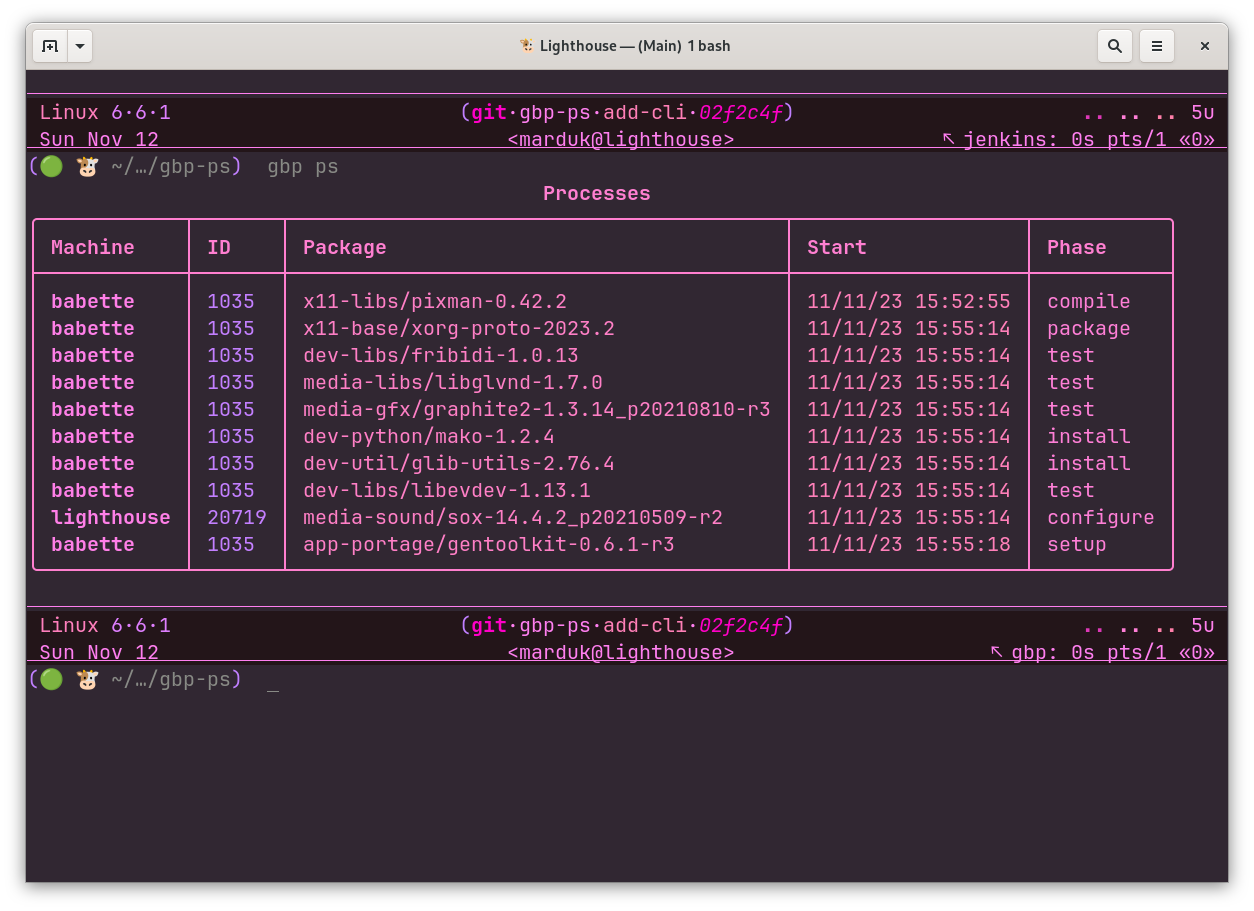
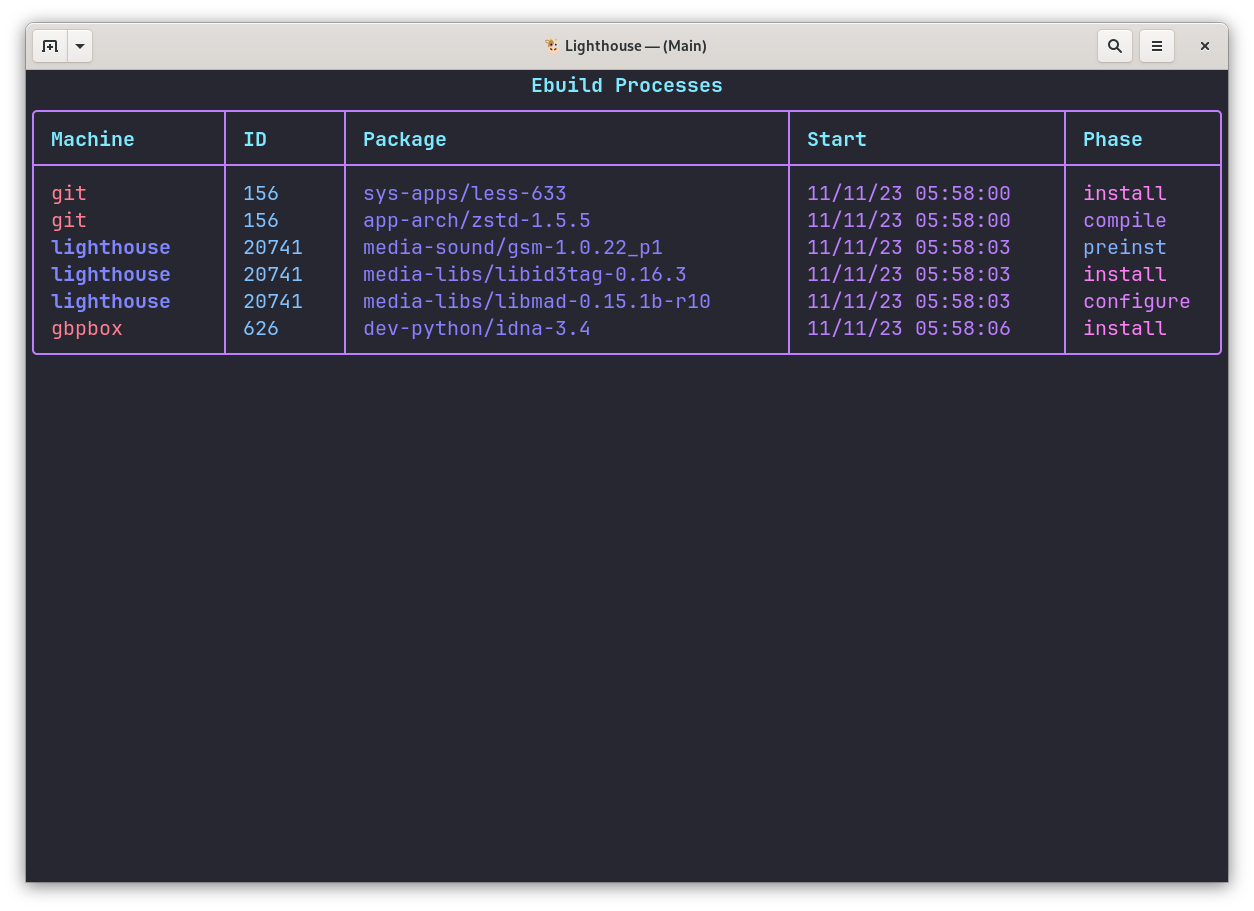
cli: add --continuous argument
When passed, `gbp ps` runs in "continuous" mode which repeatedly updates
the process table display.

diff --git a/tests/test_cli.py b/tests/test_cli.py
@@ -16,7 +16,7 @@ from rich.theme import Theme
 
 from gbp_ps import ps
 
-from . import LOCAL_TIMEZONE, make_build_process
+from . import LOCAL_TIMEZONE, build_process_dict, make_build_process
 
 
 def string_console() -> tuple[Console, io.StringIO, io.StringIO]:
@@ -26,7 +26,7 @@ def string_console() -> tuple[Console, io.StringIO, io.StringIO]:
 
     return (
         Console(
-            out=rich.console.Console(file=out, width=100, theme=Theme(DEFAULT_THEME)),
+            out=rich.console.Console(file=out, width=88, theme=Theme(DEFAULT_THEME)),
             err=rich.console.Console(file=err),
         ),
         out,
@@ -88,20 +88,20 @@ class PSTests(TestCase):
             ["net-misc/wget-1.21.4", "compile"],
         ]:
             make_build_process(package=cpv, phase=phase)
-        args = Namespace(url="http://gbp.invalid/", node=False)
+        args = Namespace(url="http://gbp.invalid/", node=False, continuous=False)
         console, stdout = string_console()[:2]
         exit_status = ps.handler(args, self.gbp, console)
 
         self.assertEqual(exit_status, 0)
         expected = """\
-                                 Processes                                  
-╭──────────┬──────┬─────────────────────────┬───────────────────┬──────────╮
-│ Machine  │ ID   │ Package                 │ Start             │ Phase    │
-├──────────┼──────┼─────────────────────────┼───────────────────┼──────────┤
-│ babbette │ 1031 │ sys-apps/portage-3.0.51 │ 11/11/23 05:20:52 │ postinst │
-│ babbette │ 1031 │ sys-apps/shadow-4.14-r4 │ 11/11/23 05:20:52 │ package  │
-│ babbette │ 1031 │ net-misc/wget-1.21.4    │ 11/11/23 05:20:52 │ compile  │
-╰──────────┴──────┴─────────────────────────┴───────────────────┴──────────╯
+                                    Ebuild Processes                                    
+╭────────────┬───────┬─────────────────────────────┬──────────────────────┬────────────╮
+│ Machine    │ ID    │ Package                     │ Start                │ Phase      │
+├────────────┼───────┼─────────────────────────────┼──────────────────────┼────────────┤
+│ babbette   │ 1031  │ sys-apps/portage-3.0.51     │ 11/11/23 05:20:52    │ postinst   │
+│ babbette   │ 1031  │ sys-apps/shadow-4.14-r4     │ 11/11/23 05:20:52    │ package    │
+│ babbette   │ 1031  │ net-misc/wget-1.21.4        │ 11/11/23 05:20:52    │ compile    │
+╰────────────┴───────┴─────────────────────────────┴──────────────────────┴────────────╯
 """
         self.assertEqual(stdout.getvalue(), expected)
 
@@ -113,30 +113,66 @@ class PSTests(TestCase):
             ["net-misc/wget-1.21.4", "compile"],
         ]:
             make_build_process(package=cpv, phase=phase)
-        args = Namespace(url="http://gbp.invalid/", node=True)
+        args = Namespace(url="http://gbp.invalid/", node=True, continuous=False)
         console, stdout = string_console()[:2]
         exit_status = ps.handler(args, self.gbp, console)
 
         self.assertEqual(exit_status, 0)
         expected = """\
-                                      Processes                                       
-╭──────────┬──────┬─────────────────────────┬───────────────────┬──────────┬─────────╮
-│ Machine  │ ID   │ Package                 │ Start             │ Phase    │ Node    │
-├──────────┼──────┼─────────────────────────┼───────────────────┼──────────┼─────────┤
-│ babbette │ 1031 │ sys-apps/portage-3.0.51 │ 11/11/23 05:20:52 │ postinst │ jenkins │
-│ babbette │ 1031 │ sys-apps/shadow-4.14-r4 │ 11/11/23 05:20:52 │ package  │ jenkins │
-│ babbette │ 1031 │ net-misc/wget-1.21.4    │ 11/11/23 05:20:52 │ compile  │ jenkins │
-╰──────────┴──────┴─────────────────────────┴───────────────────┴──────────┴─────────╯
+                                    Ebuild Processes                                    
+╭───────────┬──────┬─────────────────────────┬───────────────────┬───────────┬─────────╮
+│ Machine   │ ID   │ Package                 │ Start             │ Phase     │ Node    │
+├───────────┼──────┼─────────────────────────┼───────────────────┼───────────┼─────────┤
+│ babbette  │ 1031 │ sys-apps/portage-3.0.51 │ 11/11/23 05:20:52 │ postinst  │ jenkins │
+│ babbette  │ 1031 │ sys-apps/shadow-4.14-r4 │ 11/11/23 05:20:52 │ package   │ jenkins │
+│ babbette  │ 1031 │ net-misc/wget-1.21.4    │ 11/11/23 05:20:52 │ compile   │ jenkins │
+╰───────────┴──────┴─────────────────────────┴───────────────────┴───────────┴─────────╯
 """
         self.assertEqual(stdout.getvalue(), expected)
 
     def test_empty(self) -> None:
-        args = Namespace(url="http://gbp.invalid/", node=False)
+        args = Namespace(url="http://gbp.invalid/", node=False, continuous=False)
         console, stdout = string_console()[:2]
         exit_status = ps.handler(args, self.gbp, console)
 
         self.assertEqual(exit_status, 0)
         self.assertEqual(stdout.getvalue(), "")
+
+    @mock.patch("gbp_ps.ps.time.sleep")
+    def test_continuous_mode(self, mock_sleep: mock.Mock) -> None:
+        processes = [
+            make_build_process(package=cpv, phase=phase)
+            for cpv, phase in [
+                ["sys-apps/portage-3.0.51", "postinst"],
+                ["sys-apps/shadow-4.14-r4", "package"],
+                ["net-misc/wget-1.21.4", "compile"],
+            ]
+        ]
+        args = Namespace(
+            url="http://gbp.invalid/", node=False, continuous=True, update_interval=4
+        )
+        console, stdout = string_console()[:2]
+
+        gbp = mock.Mock()
+        mock_graphql_resp = [build_process_dict(process) for process in processes]
+        gbp.query.get_processes.side_effect = (
+            ({"buildProcesses": mock_graphql_resp}, None),
+            KeyboardInterrupt,
+        )
+        exit_status = ps.handler(args, gbp, console)
+
+        self.assertEqual(exit_status, 0)
+        expected = """\
+                                    Ebuild Processes                                    
+╭────────────┬───────┬─────────────────────────────┬──────────────────────┬────────────╮
+│ Machine    │ ID    │ Package                     │ Start                │ Phase      │
+├────────────┼───────┼─────────────────────────────┼──────────────────────┼────────────┤
+│ babbette   │ 1031  │ sys-apps/portage-3.0.51     │ 11/11/23 06:20:52    │ postinst   │
+│ babbette   │ 1031  │ sys-apps/shadow-4.14-r4     │ 11/11/23 06:20:52    │ package    │
+│ babbette   │ 1031  │ net-misc/wget-1.21.4        │ 11/11/23 06:20:52    │ compile    │
+╰────────────┴───────┴─────────────────────────────┴──────────────────────┴────────────╯"""
+        self.assertEqual(stdout.getvalue(), expected)
+        mock_sleep.assert_called_with(4)
 
 
 class ParseArgsTests(TestCase):

diff --git a/src/gbp_ps/ps.py b/src/gbp_ps/ps.py
@@ -1,26 +1,28 @@
 """Show currently building packages"""
 import argparse
 import datetime as dt
-from typing import Any
+import time
+from typing import Any, Callable, TypeAlias
 
 from gbpcli import GBP, Console, render
 from gbpcli.graphql import check
 from rich import box
+from rich.live import Live
 from rich.table import Table
 
+ModeHandler = Callable[[argparse.Namespace, GBP, Console], int]
+ProcessList: TypeAlias = list[dict[str, Any]]
 
-def handler(args: argparse.Namespace, gbp: GBP, console: Console) -> int:
-    """Show currently building packages"""
-    # NOTE: This was unintentional, but ^ GBP can only see the queries for the "gbpcli"
-    # distribution.  It needs a collector like gentoo-build-publisher has a collector
-    # for schemas
-    gbp.query._distribution = "gbp_ps"  # pylint: disable=protected-access
-    processes: list[dict[str, Any]] = check(gbp.query.get_processes())["buildProcesses"]
 
-    if not processes:
-        return 0
-
-    table = Table(title="Processes", box=box.ROUNDED, title_style="header", style="box")
+def create_table(processes: ProcessList, args: argparse.Namespace) -> Table:
+    """Return a rich Table given the list of processes"""
+    table = Table(
+        title="Ebuild Processes",
+        box=box.ROUNDED,
+        expand=True,
+        title_style="header",
+        style="box",
+    )
     table.add_column("Machine", header_style="header")
     table.add_column("ID", header_style="header")
     table.add_column("Package", header_style="header")
@@ -31,6 +33,7 @@ def handler(args: argparse.Namespace, gbp: GBP, console: Console) -> int:
         table.add_column("Node", header_style="header")
 
     for process in processes:
+        phase = process["phase"]
         row = [
             render.format_machine(process["machine"], args),
             render.format_build_number(process["id"]),
@@ -40,18 +43,72 @@ def handler(args: argparse.Namespace, gbp: GBP, console: Console) -> int:
                     render.LOCAL_TIMEZONE
                 )
             ),
-            f"[tag]{process['phase']}[/tag]",
+            f"[{phase}_phase]{phase:9}[/{phase}_phase]",
         ]
         if args.node:
             row.append(process["buildHost"])
         table.add_row(*row)
 
-    console.out.print(table)
+    return table
+
+
+def single_handler(args: argparse.Namespace, gbp: GBP, console: Console) -> int:
+    """Handler for the single-mode run of `gbp ps`"""
+    processes: ProcessList
+
+    if processes := check(gbp.query.get_processes())["buildProcesses"]:
+        console.out.print(create_table(processes, args))
+
     return 0
+
+
+def continuous_handler(args: argparse.Namespace, gbp: GBP, console: Console) -> int:
+    """Handler for the continuous-mode run of `gbp ps`"""
+
+    def update() -> Table:
+        return create_table(check(gbp.query.get_processes())["buildProcesses"], args)
+
+    console.out.clear()
+    with Live(update(), console=console.out) as live:
+        try:
+            while True:
+                time.sleep(args.update_interval)
+                live.update(update())
+        except KeyboardInterrupt:
+            pass
+    return 0
+
+
+MODES = [single_handler, continuous_handler]
+
+
+def handler(args: argparse.Namespace, gbp: GBP, console: Console) -> int:
+    """Show currently building packages"""
+    # NOTE: This was unintentional, but ^ GBP can only see the queries for the "gbpcli"
+    # distribution.  It needs a collector like gentoo-build-publisher has a collector
+    # for schemas
+    gbp.query._distribution = "gbp_ps"  # pylint: disable=protected-access
+
+    mode: ModeHandler = MODES[args.continuous]
+    return mode(args, gbp, console)
 
 
 def parse_args(parser: argparse.ArgumentParser) -> None:
     """Set subcommand arguments"""
     parser.add_argument(
         "--node", action="store_true", default=False, help="display the build node"
+    )
+    parser.add_argument(
+        "--continuous",
+        "-c",
+        action="store_true",
+        default=False,
+        help="Run and continuously poll and update",
+    )
+    parser.add_argument(
+        "--update-interval",
+        "-i",
+        type=int,
+        default=1,
+        help="In continuous mode, the interval, in seconds, between updates",
     )

diff --git a/tests/test_graphql.py b/tests/test_graphql.py
@@ -1,7 +1,6 @@
 """Tests for the GraphQL interface for gbp-ps"""
 # pylint: disable=missing-docstring
 
-from dataclasses import asdict
 from typing import Any
 
 from django.test import TestCase
@@ -9,9 +8,8 @@ from django.test.client import Client
 
 import gbp_ps
 from gbp_ps.repository import Repository
-from gbp_ps.types import BuildProcess
 
-from . import make_build_process
+from . import build_process_dict, make_build_process
 
 
 def graphql(query: str, variables: dict[str, Any] | None = None) -> Any:
@@ -126,12 +124,3 @@ class AddBuildProcessesTests(TestCase):
 
         self.assertNotIn("errors", result)
         self.assertEqual(gbp_ps.get_processes(include_final=True), [])
-
-
-def build_process_dict(build_process: BuildProcess) -> dict[str, Any]:
-    bp_dict = asdict(build_process)
-    bp_dict["buildHost"] = bp_dict.pop("build_host")
-    bp_dict["id"] = bp_dict.pop("build_id")
-    bp_dict["startTime"] = bp_dict.pop("start_time").isoformat()
-
-    return bp_dict

diff --git a/tests/__init__.py b/tests/__init__.py
@@ -1,5 +1,6 @@
 """gbp-ps tests"""
 import datetime as dt
+from dataclasses import asdict
 from typing import Any
 
 from gbp_ps.repository import Repository
@@ -25,3 +26,13 @@ def make_build_process(**kwargs: Any) -> BuildProcess:
         Repository().add_process(build_process)
 
     return build_process
+
+
+def build_process_dict(build_process: BuildProcess) -> dict[str, Any]:
+    """Return BuildProcess as a GraphQL dict"""
+    bp_dict = asdict(build_process)
+    bp_dict["buildHost"] = bp_dict.pop("build_host")
+    bp_dict["id"] = bp_dict.pop("build_id")
+    bp_dict["startTime"] = bp_dict.pop("start_time").isoformat()
+
+    return bp_dict

diff --git a/README.md b/README.md
@@ -117,3 +117,10 @@ gbp ps
 
 This should display the process table.  When no processes are building the
 output will be empty.
+
+There is also a "continuous" mode where gbp-ps will display the ebuild processes
+continuously on the screen:
+
+```sh
+gbp ps -c
+```
